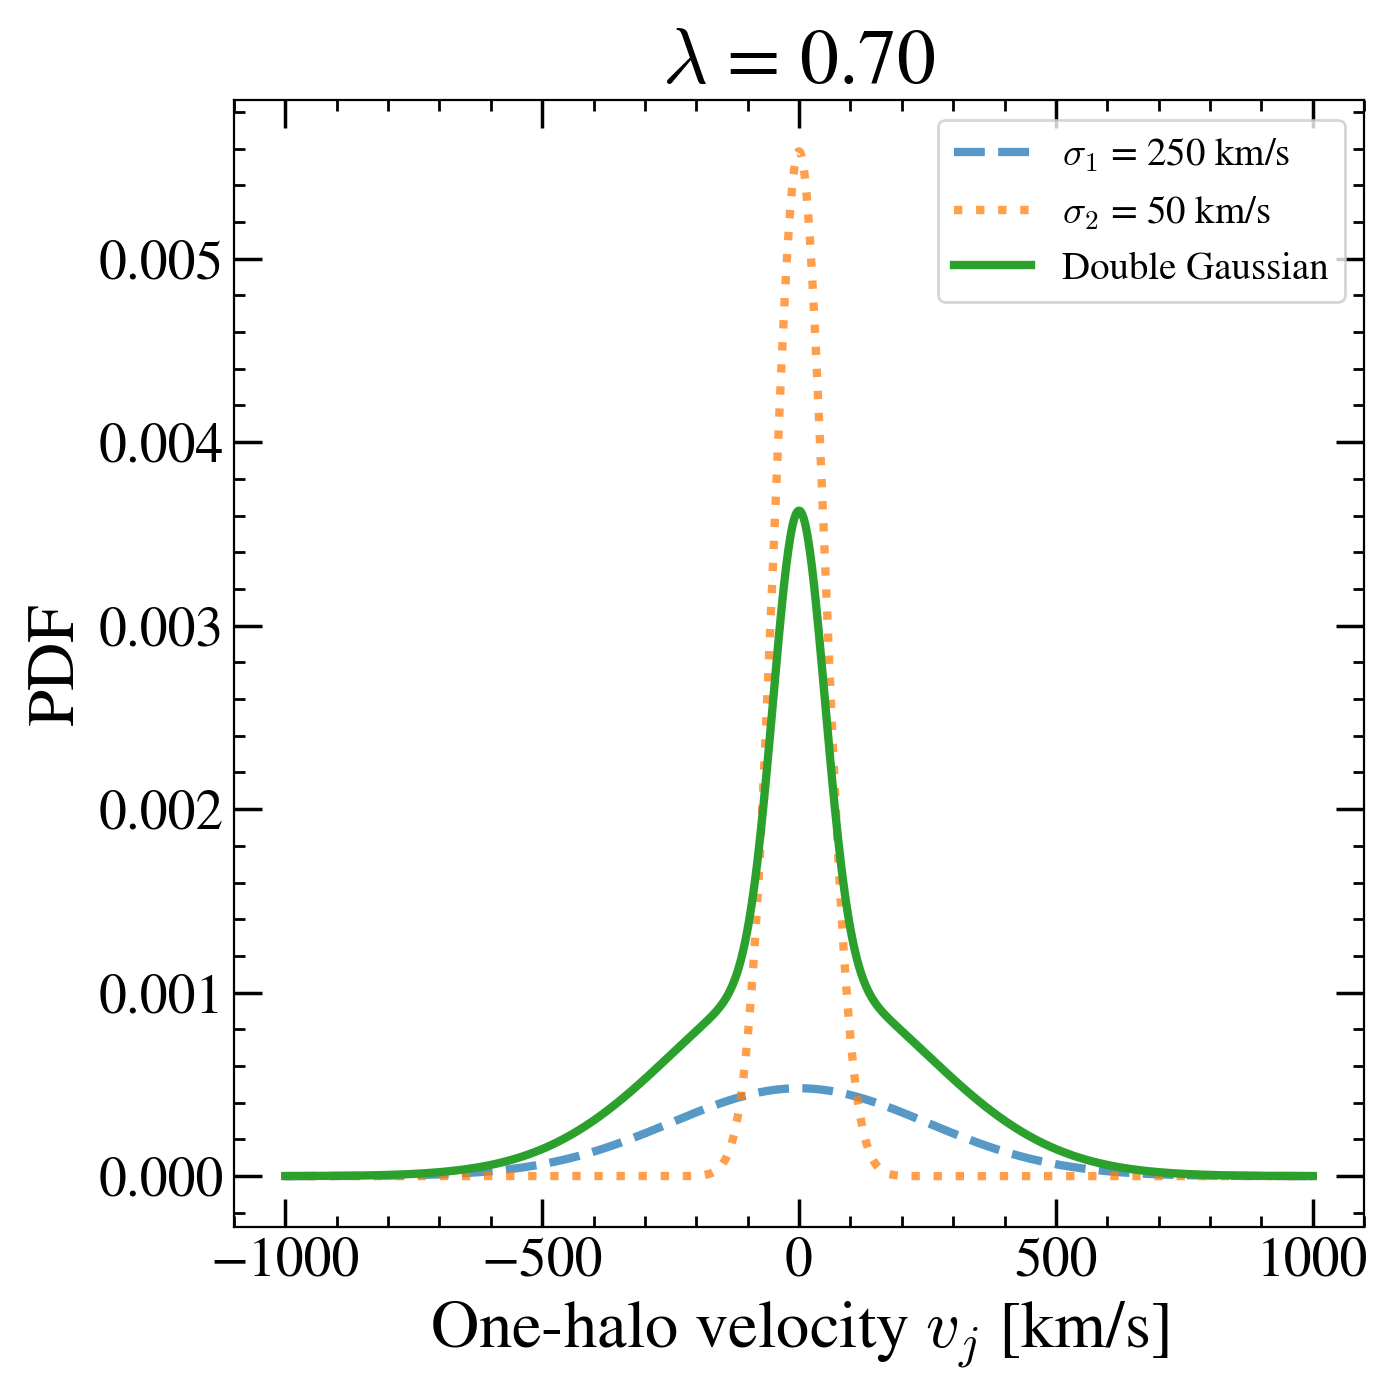
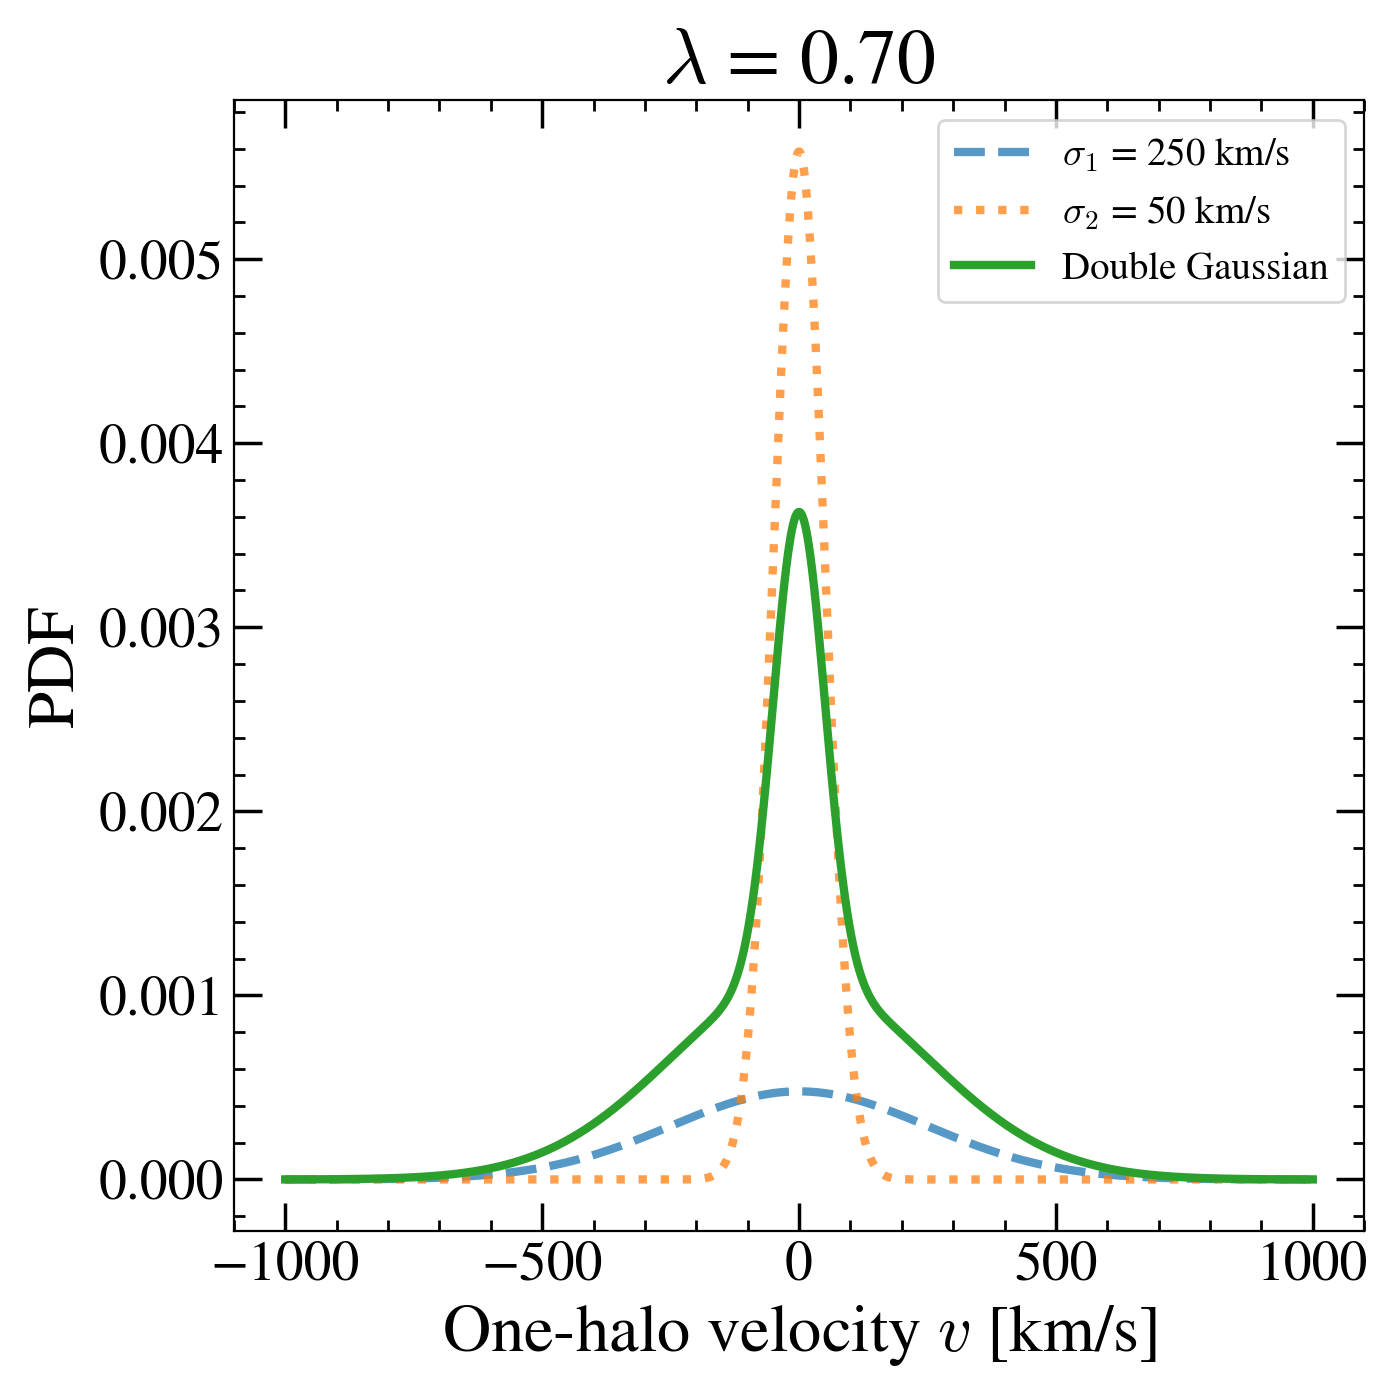
MADD hists with better axis labels

diff --git a/onehalo_MADD_plotter.py b/onehalo_MADD_plotter.py
@@ -17,22 +17,22 @@ filterwarnings('ignore',category = RuntimeWarning)
 
 def format_plot():
     # Define some properties for the figures so that they look good
-    SMALL_SIZE = 10 * 2 
-    MEDIUM_SIZE = 12 * 2
-    BIGGER_SIZE = 14 * 2
+    SMALL_SIZE = 8 * 2 
+    MEDIUM_SIZE = 10 * 2
+    BIGGER_SIZE = 12 * 2
 
     plt.rc('axes', titlesize=BIGGER_SIZE)                     # fontsize of the axes title\n",
     plt.rc('axes', labelsize=MEDIUM_SIZE)                    # fontsize of the x and y labels\n",
     plt.rc('xtick', labelsize=SMALL_SIZE, direction='out')   # fontsize of the tick labels\n",
     plt.rc('ytick', labelsize=SMALL_SIZE, direction='out')   # fontsize of the tick labels\n",
-    plt.rc('legend', fontsize=16)                    # legend fontsize\n",
+    plt.rc('legend', fontsize=SMALL_SIZE)                    # legend fontsize\n",
     mpl.rcParams['axes.titlesize'] = BIGGER_SIZE
     mpl.rcParams['ytick.direction'] = 'in'
     mpl.rcParams['xtick.direction'] = 'in'
     mpl.rcParams['mathtext.fontset'] = 'cm'
     mpl.rcParams['font.family'] = 'STIXgeneral'
 
-    mpl.rcParams['figure.dpi'] = 100
+    mpl.rcParams['figure.dpi'] = 300
 
     mpl.rcParams['xtick.minor.visible'] = True
     mpl.rcParams['ytick.minor.visible'] = True
@@ -221,8 +221,8 @@ class MADD_plotter:
         
         filename = os.path.join(filepath, f'function_combi_{combi_number}')
         mkdir_if_non_existent(filename)
-        filename = os.path.join(filename, f'{str_from_mbin(mbin)}_{str_from_rbin(rbin)}_fit.png')
-        # filename = os.path.join(filename, f'{str_from_mbin(mbin)}_{str_from_rbin(rbin)}_fit.pdf')
+        # filename = os.path.join(filename, f'{str_from_mbin(mbin)}_{str_from_rbin(rbin)}_fit.png')
+        filename = os.path.join(filename, f'{str_from_mbin(mbin)}_{str_from_rbin(rbin)}_fit.pdf')
 
         # Setting xlims for better viewing
         data_std = np.std(vel_data_in_bin)
@@ -265,10 +265,10 @@ class MADD_plotter:
         rbins = np.array([[r_range[i],r_range[i+1]] for i in range(len(r_range)-1)]) 
 
         # Some example bins to show the model over larger ranges of mass and distance
-        # self.plot_in_bin(param_dict['parameters'], func_combi, combi_nr, n_params_r, n_params_m, BIC_score, [2.0, 2.5], [1, 1.5], filepath = fp_for_hists)
-        self.plot_in_bin(param_dict['parameters'], func_combi, combi_nr, n_params_r, n_params_m, BIC_score, [4.0, 5.5], [0.01, 0.10], filepath = fp_for_hists)
-        # self.plot_in_bin(param_dict['parameters'], func_combi, combi_nr, n_params_r, n_params_m, BIC_score, [2.5, 3.5], [1.5, 2.50], filepath = fp_for_hists)
-        self.plot_in_bin(param_dict['parameters'], func_combi, combi_nr, n_params_r, n_params_m, BIC_score, [3.0, 3.5], [0.01, 0.07], filepath = fp_for_hists)
+        self.plot_in_bin(param_dict['parameters'], func_combi, combi_nr, n_params_r, n_params_m, BIC_score, [2.0, 2.5], [1, 1.5], filepath = fp_for_hists)
+        self.plot_in_bin(param_dict['parameters'], func_combi, combi_nr, n_params_r, n_params_m, BIC_score, [4.0, 5.5], [0.00, 0.10], filepath = fp_for_hists)
+        self.plot_in_bin(param_dict['parameters'], func_combi, combi_nr, n_params_r, n_params_m, BIC_score, [2.5, 3.5], [1.5, 2.50], filepath = fp_for_hists)
+        self.plot_in_bin(param_dict['parameters'], func_combi, combi_nr, n_params_r, n_params_m, BIC_score, [3.0, 3.5], [0.00, 0.07], filepath = fp_for_hists)
 
         # if self.subsample_data: # All simple onehalo bins for comparison, takes too long for full data
         #     fp_for_hists = os.path.join(fp_for_hists, 'simple_bins')
@@ -303,12 +303,8 @@ if __name__ == '__main__':
     if subsampled_data:
         iterable = MADD_plotter_instance.best_combi_nrs[:10]
     else:
-        iterable = [5447, 4315] 
+        iterable = [5447] 
         # iterable = MADD_plotter_instance.best_combi_nrs
-    
-    # if not parallelize:
-    #     for cnr in iterable:
-    #         MADD_plotter_instance.plot_rainbows_and_histograms_for_combi_nr(cnr)
 
     from multiprocessing import Pool
     NPROCS = len(iterable)

diff --git a/functional_forms.py b/functional_forms.py
@@ -34,7 +34,7 @@ def poly_4_func(x, a, b, c, d, e):
 
 # STANDARD FUNCTIONS OF R1h!
 lambda_r_funcs = [inverse_func]
-sigma_1_r_funcs = [poly_4_func]
+sigma_1_r_funcs = [poly_3_func]
 sigma_2_r_funcs = [linear_func]
 
 m_funcs = [linear_func, parabola_func, exponential_func]